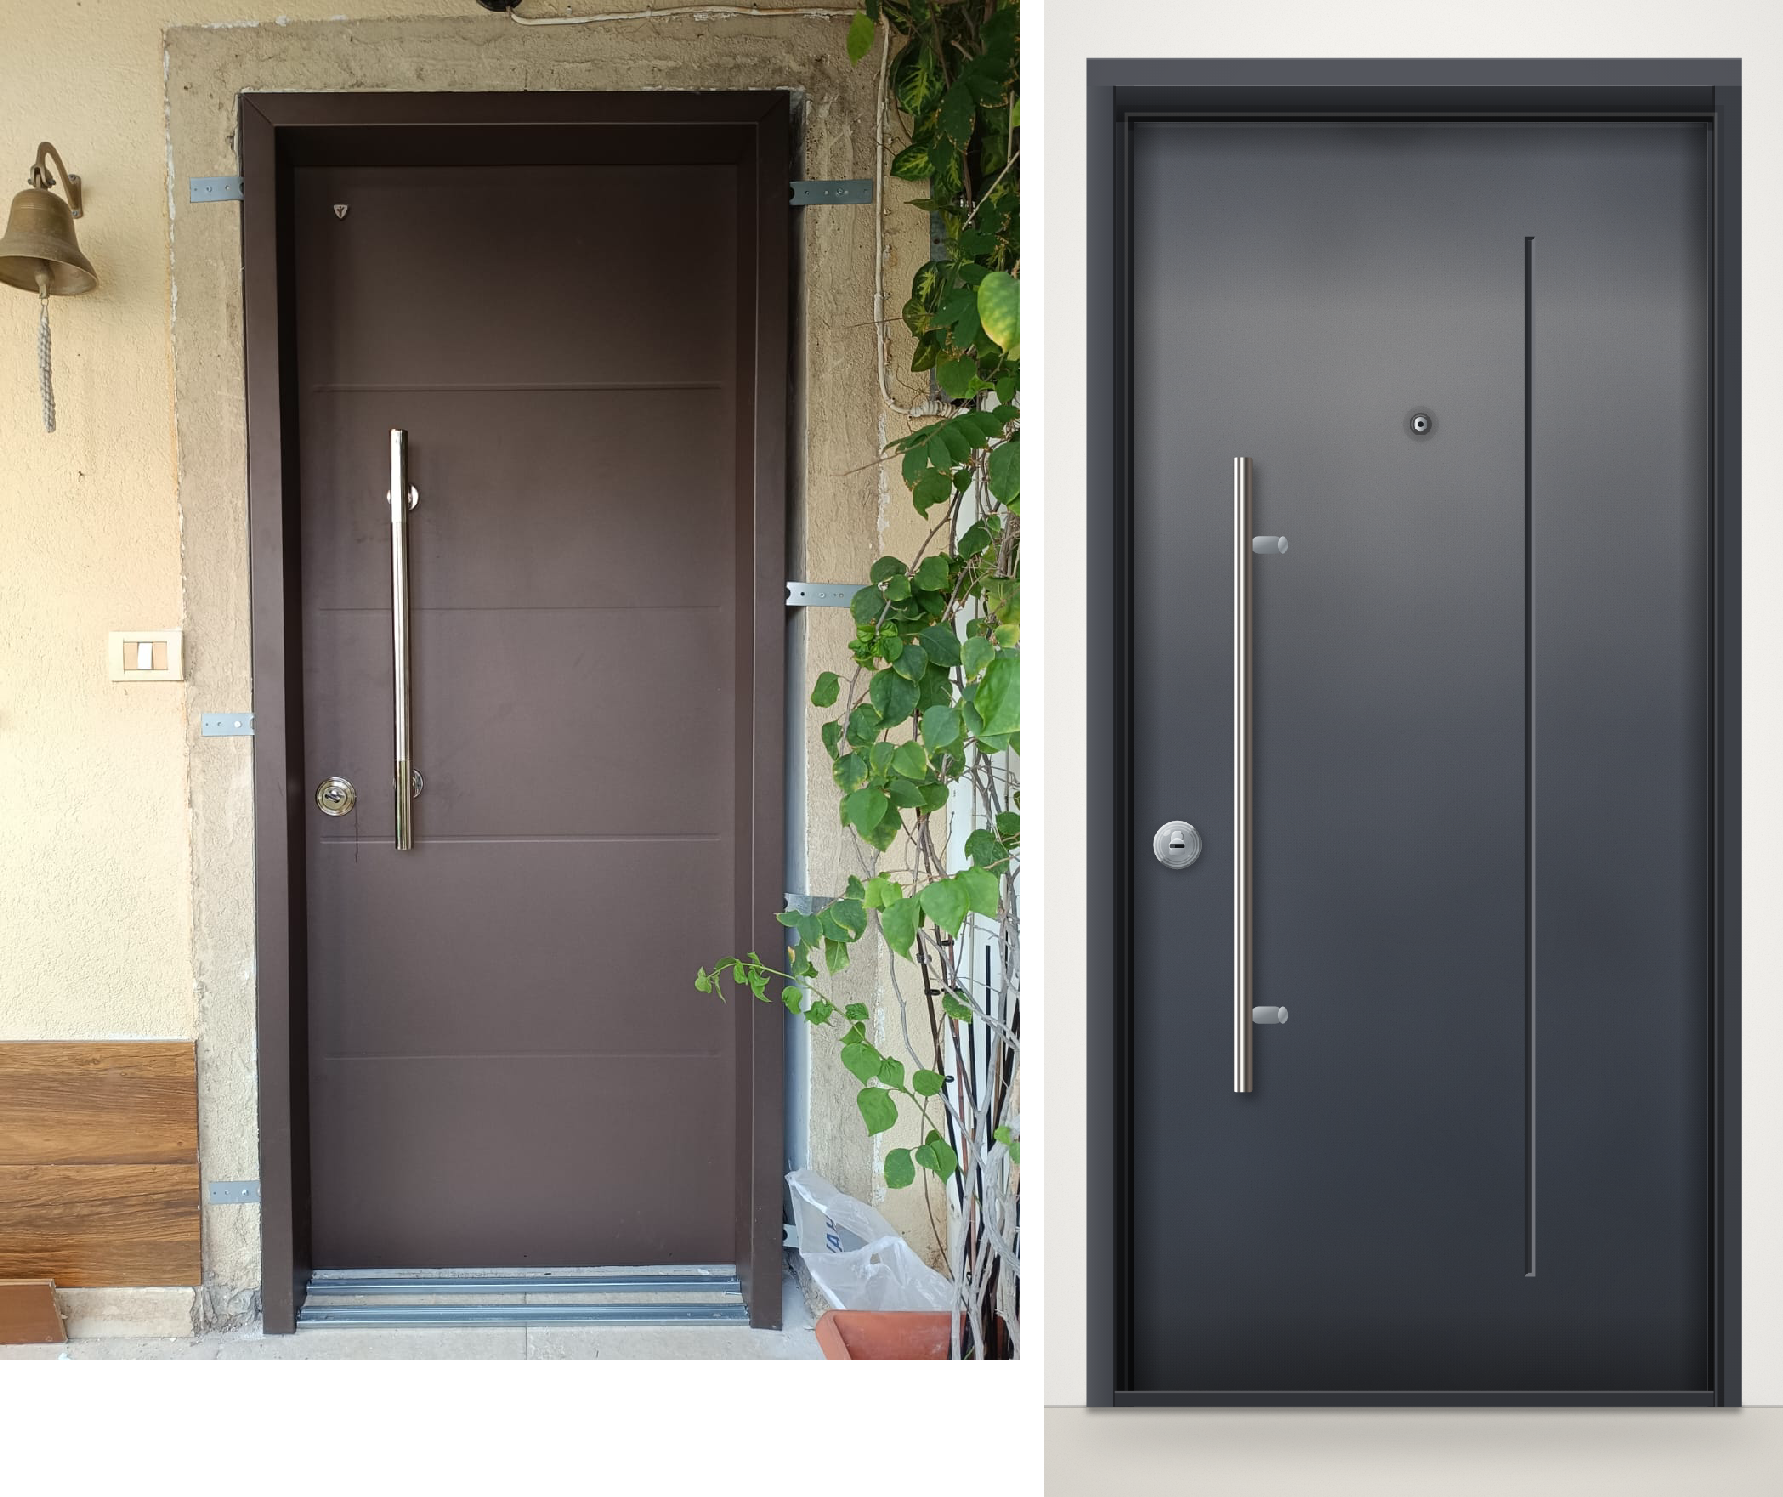
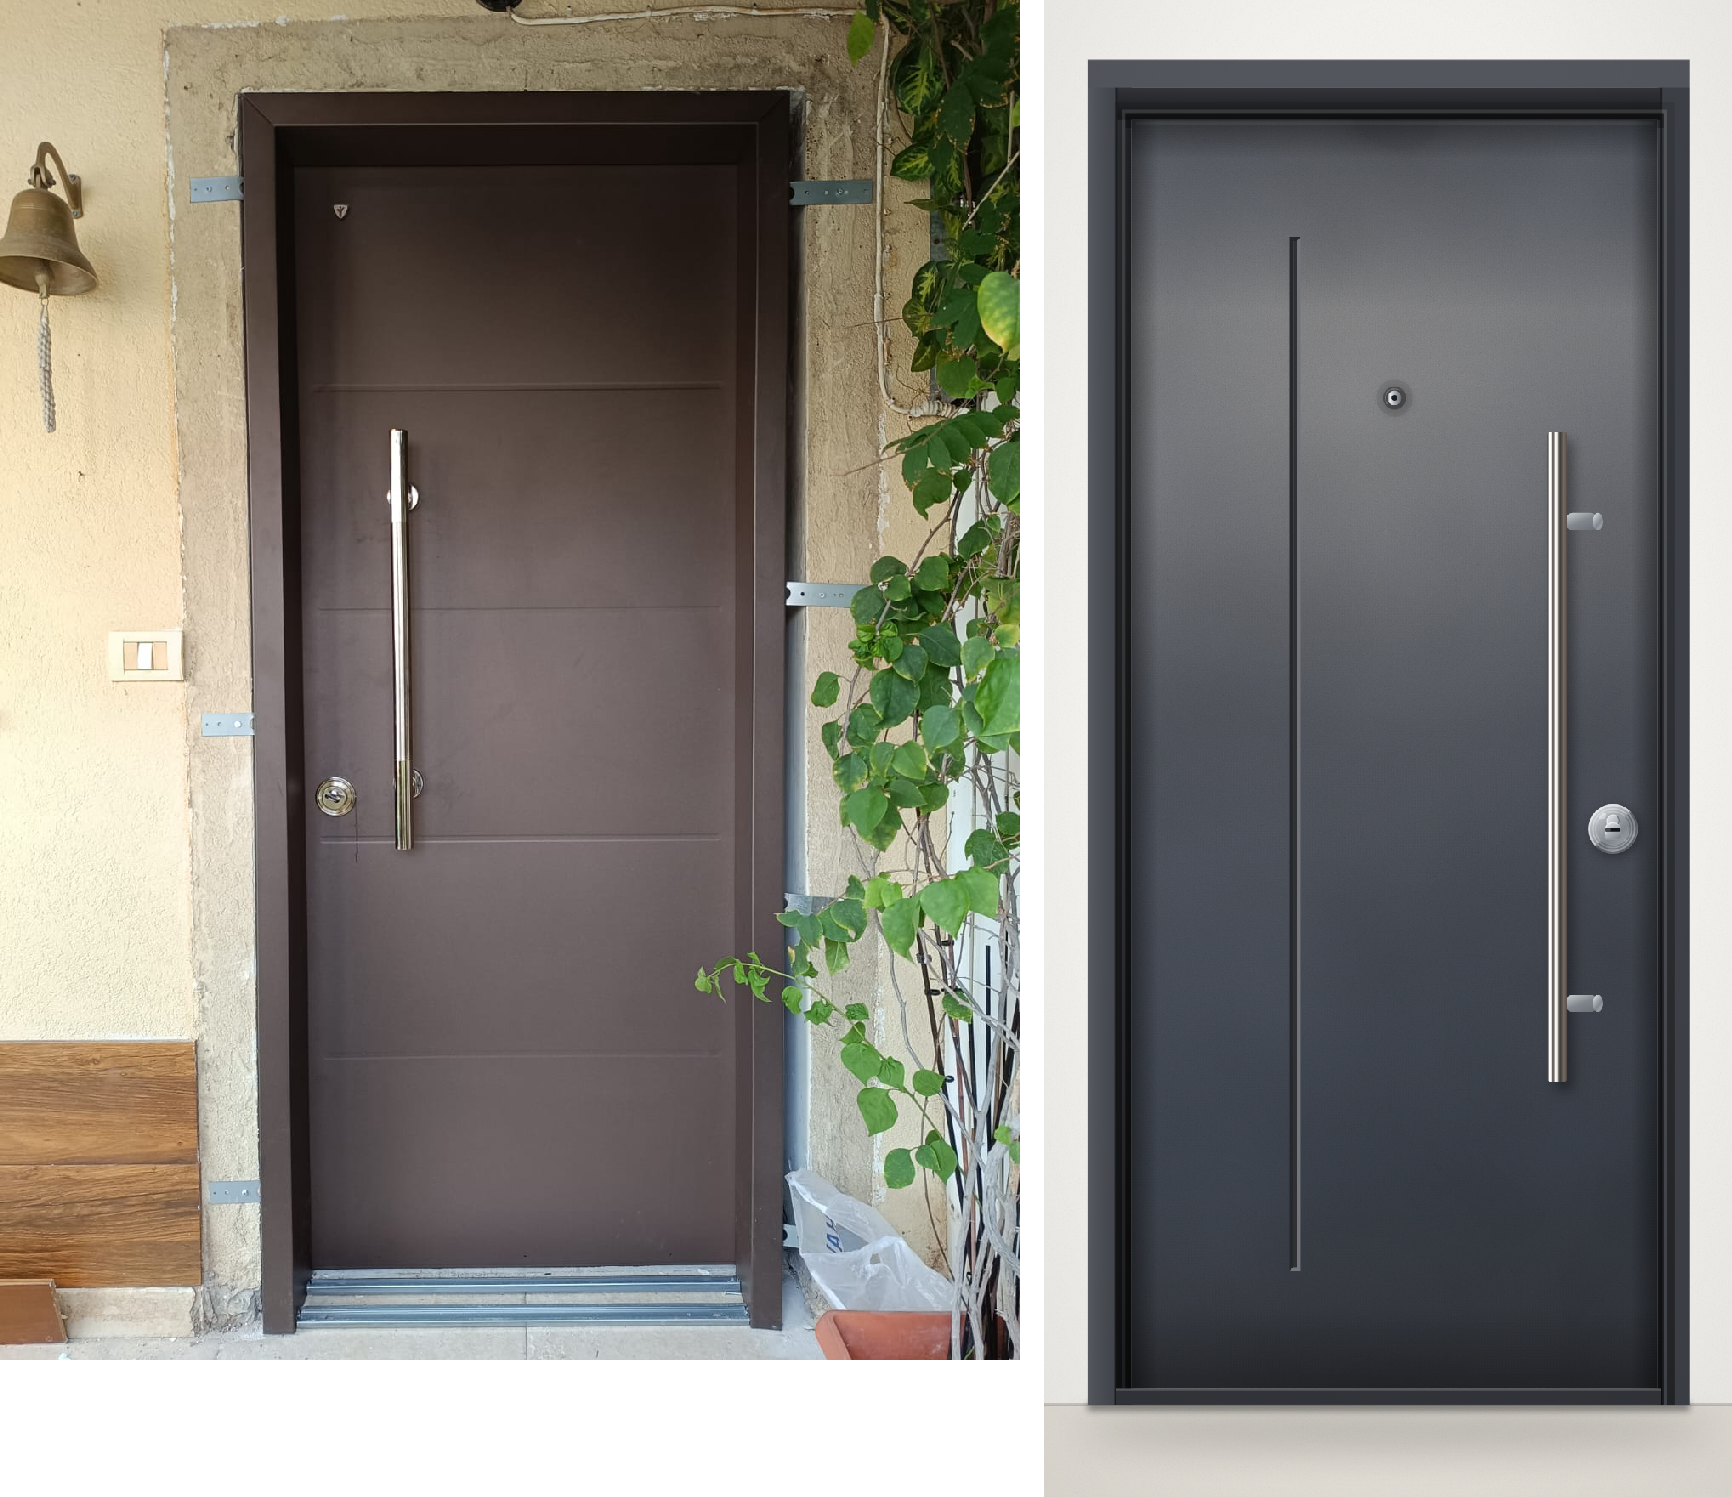
Slim the leaf to its measured proportion and lift the glazing
The leaf and the opening were the same rectangle, so every door came out
squat: across the 20 works photographs square-on enough to trust a real
leaf runs h/w 2.44, ours was 2.21, and 18 of the 20 were slimmer than we
drew. A steel frame rebates the leaf inside the opening on both jambs
and at the head and stops at the floor, so SIZES now means the opening
and the leaf is that less 50 mm. 950x2100 becomes an 850x2050 leaf at
2.41. No customer-facing number moves: SIZES millimetres are never shown,
only the band names.

The returns are re-anchored to the slimmer leaf, so the constructed
reveal is near 0.062, far 0.040, head 0.093 of leaf width against
photographic 0.045-0.067, 0.031-0.038 and 0.093.

Glazing was sitting too low on every door. The ten measured glazed doors
put the top of the glass at 0.085 of leaf height; ours were at 0.20-0.23,
and tallwin was 0.58 of the leaf tall against a measured median of 0.50.
On the slimmer leaf that also squeezed the lower panel to 20 mm under
the 300 it needs, and raisedPanel drops itself rather than draw
mouldings across glass — so 84 panel+tallwin combinations were silently
losing their panel. Both fixed by putting the glass where it belongs.

Claude-Session: https://claude.ai/code/session_01JrJkfqqYrZ9kcBnv7Lx4Di

diff --git a/assets/bundle.js b/assets/bundle.js
@@ -22,11 +22,11 @@
   ];
   var WINDOWS = [
     { id: "none", he: "ללא חלון", en: "Solid", delta: 0, rects: [] },
-    { id: "square", he: "חלון מרובע", en: "Square", delta: 45e3, rects: [{ w: 260, h: 260, top: 520 }] },
-    { id: "rect", he: "חלון מלבני", en: "Rectangular", delta: 62e3, rects: [{ w: 420, h: 560, top: 470 }] },
-    { id: "strip", he: "צוהר אנכי", en: "Vertical slot", delta: 58e3, rects: [{ w: 190, h: 1e3, top: 430 }] },
-    { id: "duo", he: "שני חלונות", en: "Two lights", delta: 74e3, rects: [{ w: 200, h: 220, top: 520, dx: -150 }, { w: 200, h: 220, top: 520, dx: 150 }] },
-    { id: "tallwin", he: "חלון גבוה", en: "Tall light", delta: 88e3, rects: [{ w: 340, h: 1180, top: 400 }] }
+    { id: "square", he: "חלון מרובע", en: "Square", delta: 45e3, rects: [{ w: 270, h: 270, top: 300 }] },
+    { id: "rect", he: "חלון מלבני", en: "Rectangular", delta: 62e3, rects: [{ w: 360, h: 740, top: 265 }] },
+    { id: "strip", he: "צוהר אנכי", en: "Vertical slot", delta: 58e3, rects: [{ w: 190, h: 900, top: 220 }] },
+    { id: "duo", he: "שני חלונות", en: "Two lights", delta: 74e3, rects: [{ w: 200, h: 230, top: 300, dx: -150 }, { w: 200, h: 230, top: 300, dx: 150 }] },
+    { id: "tallwin", he: "חלון גבוה", en: "Tall light", delta: 88e3, rects: [{ w: 357, h: 1025, top: 175 }] }
   ];
   var HANDLES = [
     /* Levers and locksets */
@@ -222,10 +222,11 @@
     light: { peak: 0.1, mid: 0.05, low: 0.14, foot: 0.17, head: 0.02, grain: 0.02, drift: 0.14 }
   };
   var CASING = 46;
-  var RET_NEAR = 32;
-  var RET_FAR = 10;
-  var RET_HEAD = 60;
+  var RET_NEAR = 25;
+  var RET_FAR = 6;
+  var RET_HEAD = 51;
   var MULLION = 46;
+  var REBATE = 50;
   var GAP = 10;
   var BEAD = 6;
   var QUIRK = 12;
@@ -270,8 +271,8 @@
     const finish = byId(FINISHES, state2.finish);
     const tone = FINISH_TONES[finish.id] || FINISH_TONES.steel;
     const inside = state2.view === "in";
-    const leafW = size.w, leafH = size.h;
-    const sideW = size.side || 0;
+    const leafW = size.w - REBATE * 2, leafH = size.h - REBATE;
+    const sideW = size.side ? size.side - REBATE : 0;
     const totalW = leafW + (sideW ? sideW + MULLION : 0);
     const x0 = PAD.x + CASING + RET_NEAR;
     const x1 = x0 + totalW;

diff --git a/js/catalog.js b/js/catalog.js
@@ -51,14 +51,21 @@ export const COLOURS = [
 /**
  * Window openings. `rects` are in mm, centred on the leaf unless `dx` shifts
  * them, measured from the top of the leaf. An empty list means a solid door.
+ *
+ * Retuned against the ten glazed doors in research/works/data2. Every one puts
+ * the glass markedly higher than we did — median top 0.085 of leaf height
+ * against our 0.20-0.23 — and the median opening is 0.42 of leaf width by 0.50
+ * of its height. `tallwin` was 0.58 tall, which on the corrected (slimmer)
+ * leaf also left the lower panel 20 mm short of the room it needs, so the
+ * renderer silently dropped the panel on every tallwin + panel combination.
  */
 export const WINDOWS = [
   { id: 'none',   he: 'ללא חלון',       en: 'Solid',            delta: 0,      rects: [] },
-  { id: 'square', he: 'חלון מרובע',     en: 'Square',           delta: 45000,  rects: [{ w: 260, h: 260, top: 520 }] },
-  { id: 'rect',   he: 'חלון מלבני',     en: 'Rectangular',      delta: 62000,  rects: [{ w: 420, h: 560, top: 470 }] },
-  { id: 'strip',  he: 'צוהר אנכי',      en: 'Vertical slot',    delta: 58000,  rects: [{ w: 190, h: 1000, top: 430 }] },
-  { id: 'duo',    he: 'שני חלונות',     en: 'Two lights',       delta: 74000,  rects: [{ w: 200, h: 220, top: 520, dx: -150 }, { w: 200, h: 220, top: 520, dx: 150 }] },
-  { id: 'tallwin',he: 'חלון גבוה',      en: 'Tall light',       delta: 88000,  rects: [{ w: 340, h: 1180, top: 400 }] },
+  { id: 'square', he: 'חלון מרובע',     en: 'Square',           delta: 45000,  rects: [{ w: 270, h: 270, top: 300 }] },
+  { id: 'rect',   he: 'חלון מלבני',     en: 'Rectangular',      delta: 62000,  rects: [{ w: 360, h: 740, top: 265 }] },
+  { id: 'strip',  he: 'צוהר אנכי',      en: 'Vertical slot',    delta: 58000,  rects: [{ w: 190, h: 900, top: 220 }] },
+  { id: 'duo',    he: 'שני חלונות',     en: 'Two lights',       delta: 74000,  rects: [{ w: 200, h: 230, top: 300, dx: -150 }, { w: 200, h: 230, top: 300, dx: 150 }] },
+  { id: 'tallwin',he: 'חלון גבוה',      en: 'Tall light',       delta: 88000,  rects: [{ w: 357, h: 1025, top: 175 }] },
 ];
 
 /**

diff --git a/js/renderer.js b/js/renderer.js
@@ -81,10 +81,11 @@ const FALLOFF = {
    (REALISM.md §1) — but the far return is now nearly nothing, which is what
    an almost-square-on view actually shows. */
 const CASING   = 46;   // flat frame face against the wall
-const RET_NEAR = 32;   // visible return, camera side (wide)
-const RET_FAR  = 10;   // visible return, far side — nearly edge-on
-const RET_HEAD = 60;   // visible return under the head — the deepest of the three
+const RET_NEAR = 25;   // visible return, camera side (wide)
+const RET_FAR  = 6;   // visible return, far side — nearly edge-on
+const RET_HEAD = 51;   // visible return under the head — the deepest of the three
 const MULLION  = 46;
+const REBATE   = 50;   // frame rebate: how far the leaf sits inside the opening
 
 /* The reveal profile, read outward from the leaf. Every works photograph has
    these three bands and the renderer had none of them: it went straight from
@@ -157,8 +158,16 @@ export function render(state) {
   const tone    = FINISH_TONES[finish.id] || FINISH_TONES.steel;
   const inside  = state.view === 'in';
 
-  const leafW = size.w, leafH = size.h;
-  const sideW = size.side || 0;
+  /* SIZES gives the structural OPENING, not the leaf. We were drawing the two
+     as the same thing, which made every door too squat: measured across the 20
+     works photographs square-on enough to trust, a real leaf runs h/w 2.44
+     (1.96 to 2.82), and ours was 2.21 — more slender than us in 18 of 20.
+     A steel frame rebates the leaf inside the opening on both jambs and at the
+     head, and stops at the floor. 950 x 2100 opening less that rebate is
+     850 x 2050, which is 2.41. The band names and prices are untouched: no
+     millimetre in SIZES is ever shown to a customer, only 'סטנדרטית'. */
+  const leafW = size.w - REBATE * 2, leafH = size.h - REBATE;
+  const sideW = size.side ? size.side - REBATE : 0;
   const totalW = leafW + (sideW ? sideW + MULLION : 0);
 
   // Left edge of the leaf opening; returns and casing sit outside it.
